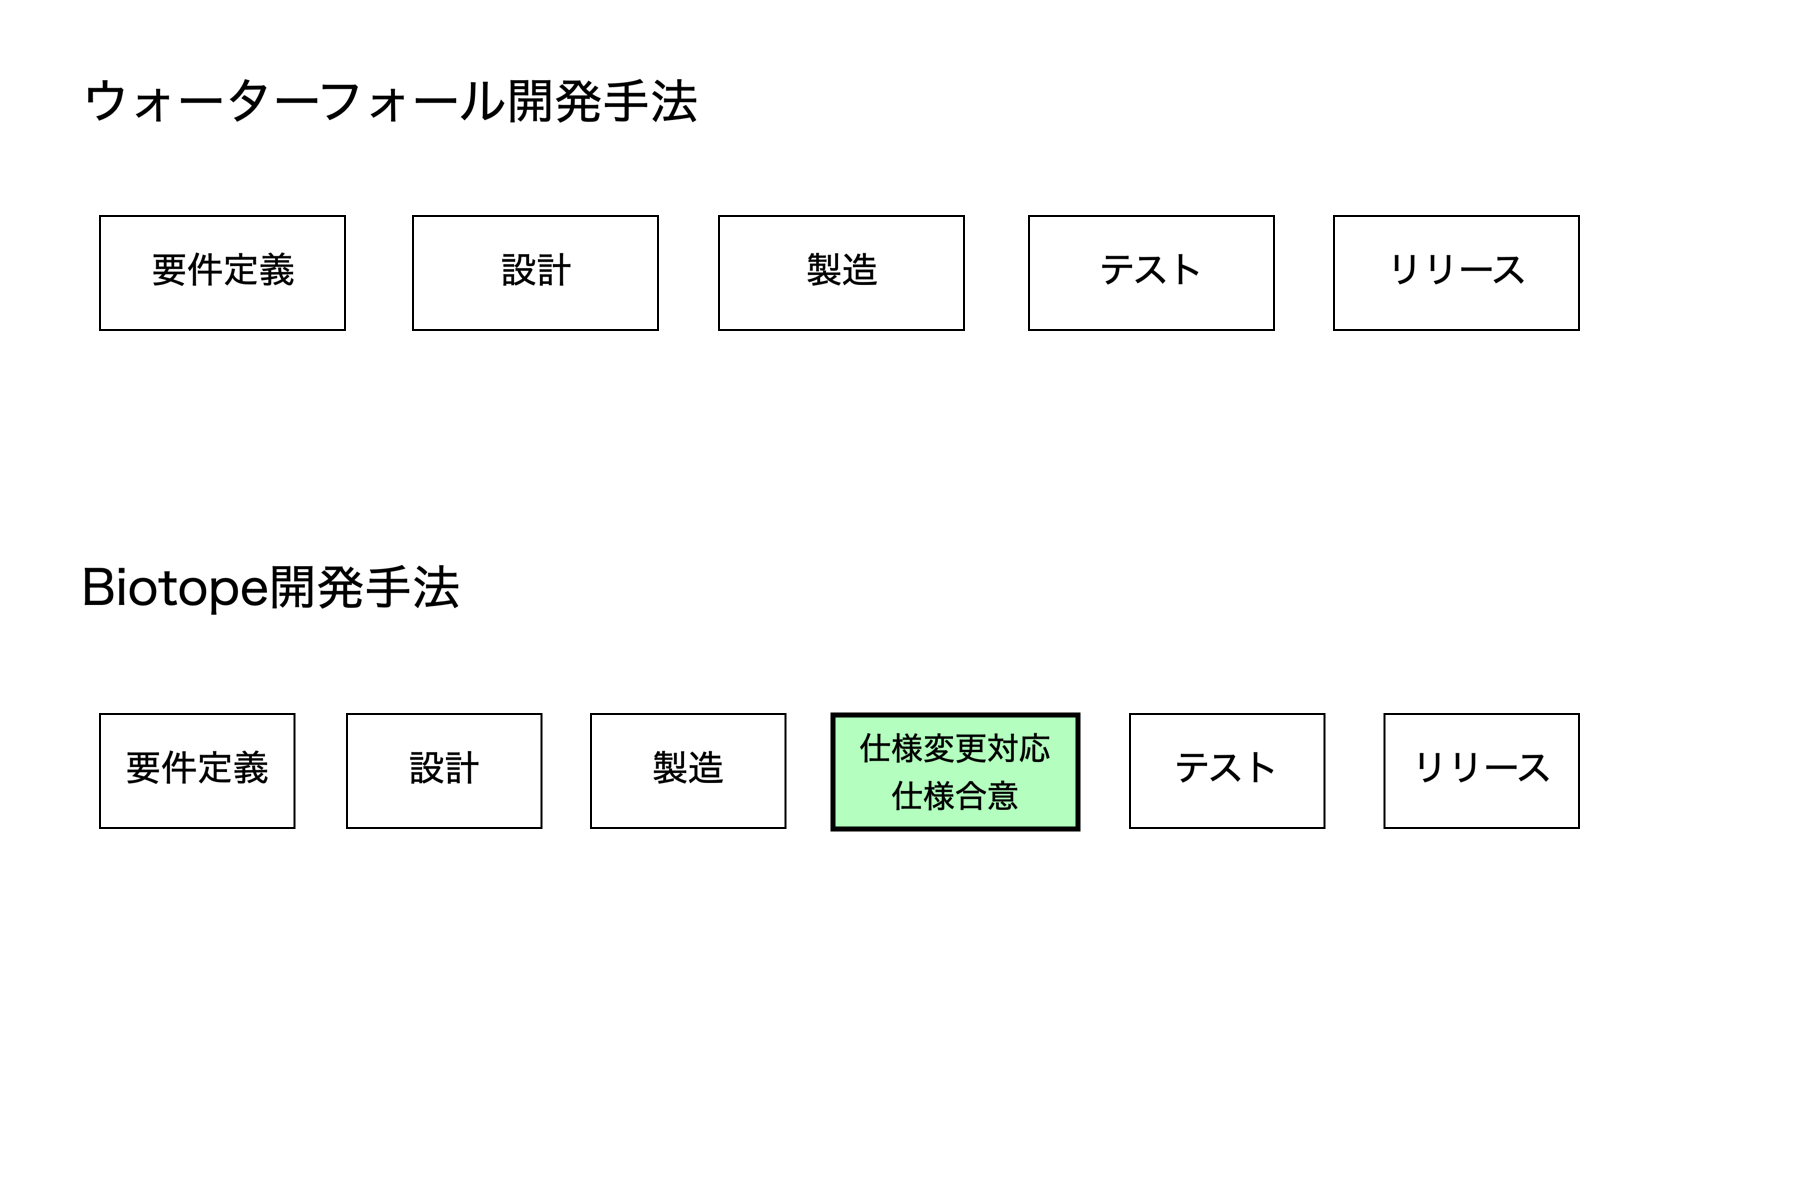
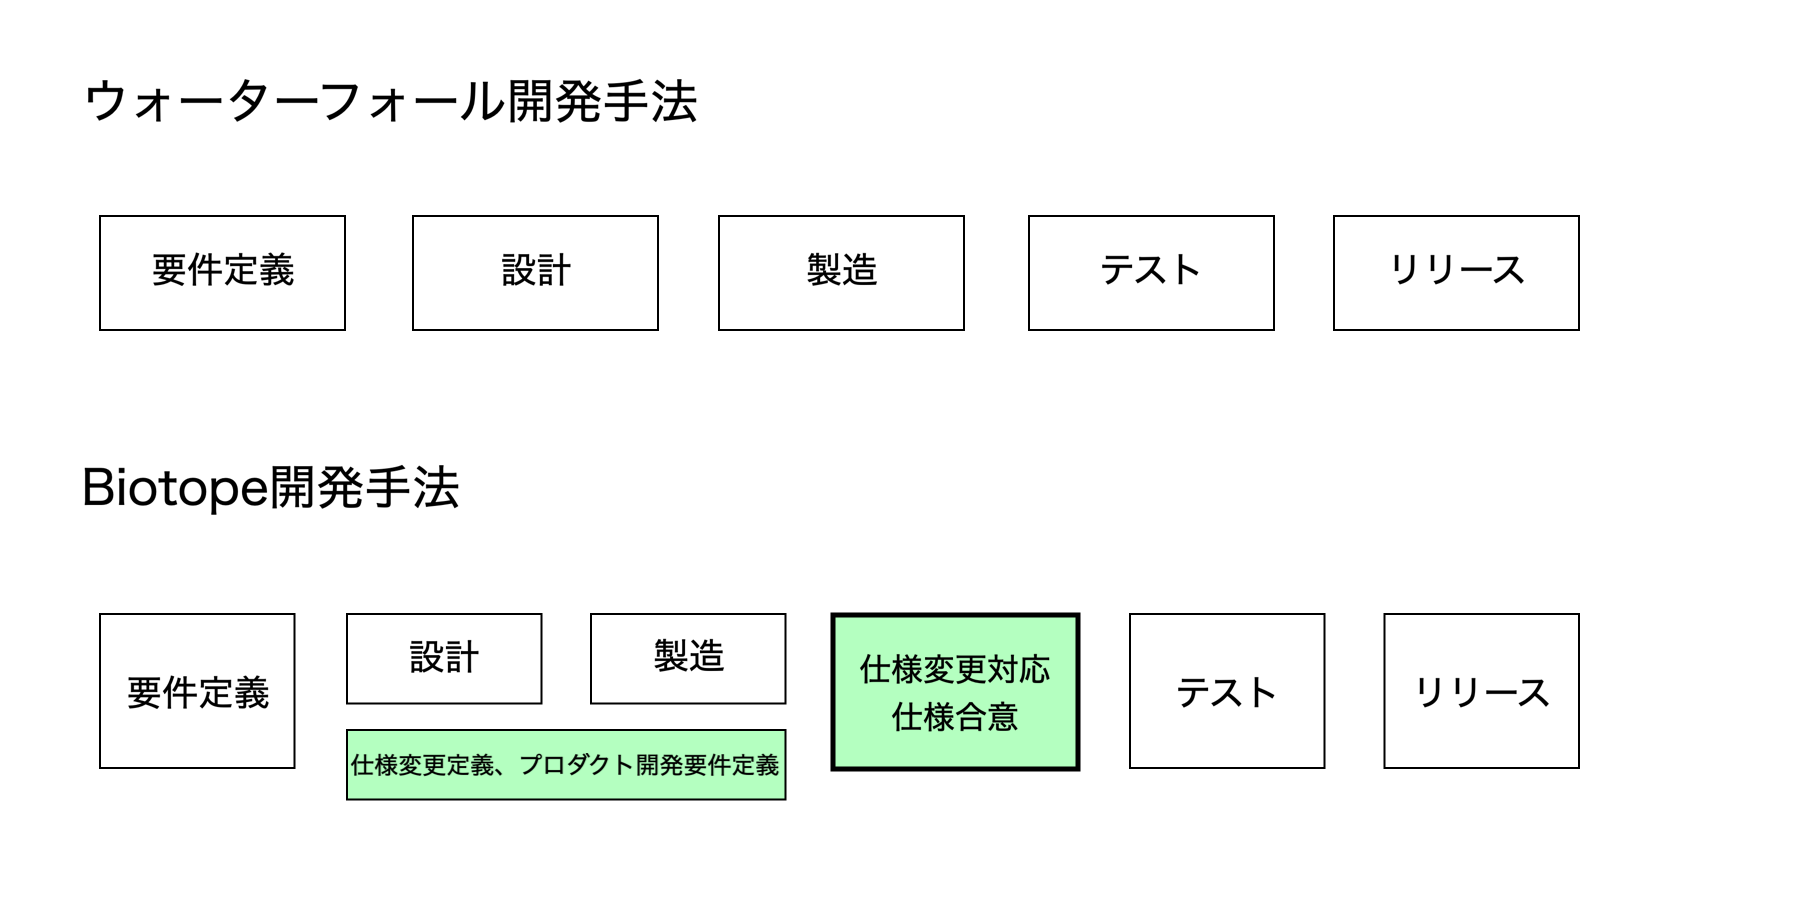
フローに少し追加

diff --git a/README.md b/README.md
@@ -1,7 +1,7 @@
 # Biotope型開発手法
 
 ## 前置き：Biotope(ビオトープ）とは
-Biotope(ビオトープ）とは、日本語で湾処（わんど）のことで、川の本流に対して繋がっているが水が淀む地点の事を指す。魚の産卵、生育の場でまた避難場所にもなる。
+Biotope(ビオトープ）とは、日本語で湾処（わんど）のことで、川の本流に対して繋がっているが流れが無く水が淀む地点の事を指す。魚の産卵、生育の場でまた避難場所にもなる。
 
 ## プロジェクト開発とプロダクト開発
 
@@ -36,7 +36,13 @@ Biotope(ビオトープ）とは、日本語で湾処（わんど）のことで
 
 ## Biotope開発手法
 ### Biotope（湾処）
-Biotope開発手法は、ウォーターフォールに対して何も新しい技術は取り込んではいない。ただ一つ違う点は、開発の完了時且つ結合テストを行う前に「仕様変更対応」と「仕様合意」の期間を取る。
+Biotope開発手法は、ウォーターフォールに対して何も新しい技術は取り込んではいない。違う点として以下が挙げられる。
+* 要件定義完了時に開発見積もりを提出する
+  * この見積もりは要件定義の内容に対して行い、その後の仕様変更については加味しない
+  * 初期要件定義期間の延長は基本的に認めず、初期要件で出せなかった要件はプロダクト開発要件定義で改めて話し合いを行う
+* 要件定義完了後に、プロダクト開発の要件定義を行う
+  * プロダクト開発の要件定義では製造中システムの仕様変更について話し合いを行う
+* 開発の完了時且つ結合テストを行う前に「仕様変更対応」と「仕様合意」の期間を取る。
 滝のような開発を行うのではなく、Biotope（湾処）となる地点を一度置くことで、システムのリリース前に一度全員が今のシステム仕様を立ち返り俯瞰することで本当に時流にあったプロダクトをプロジェクト開発出来ているいるのかを確認する期間を取る。
 
 この湾処は、企業に仕様変更を指示する時間を与え、ベンダーに仕様変更を受け入れる時間を与える。デザインの変更もこの期間に行う。
